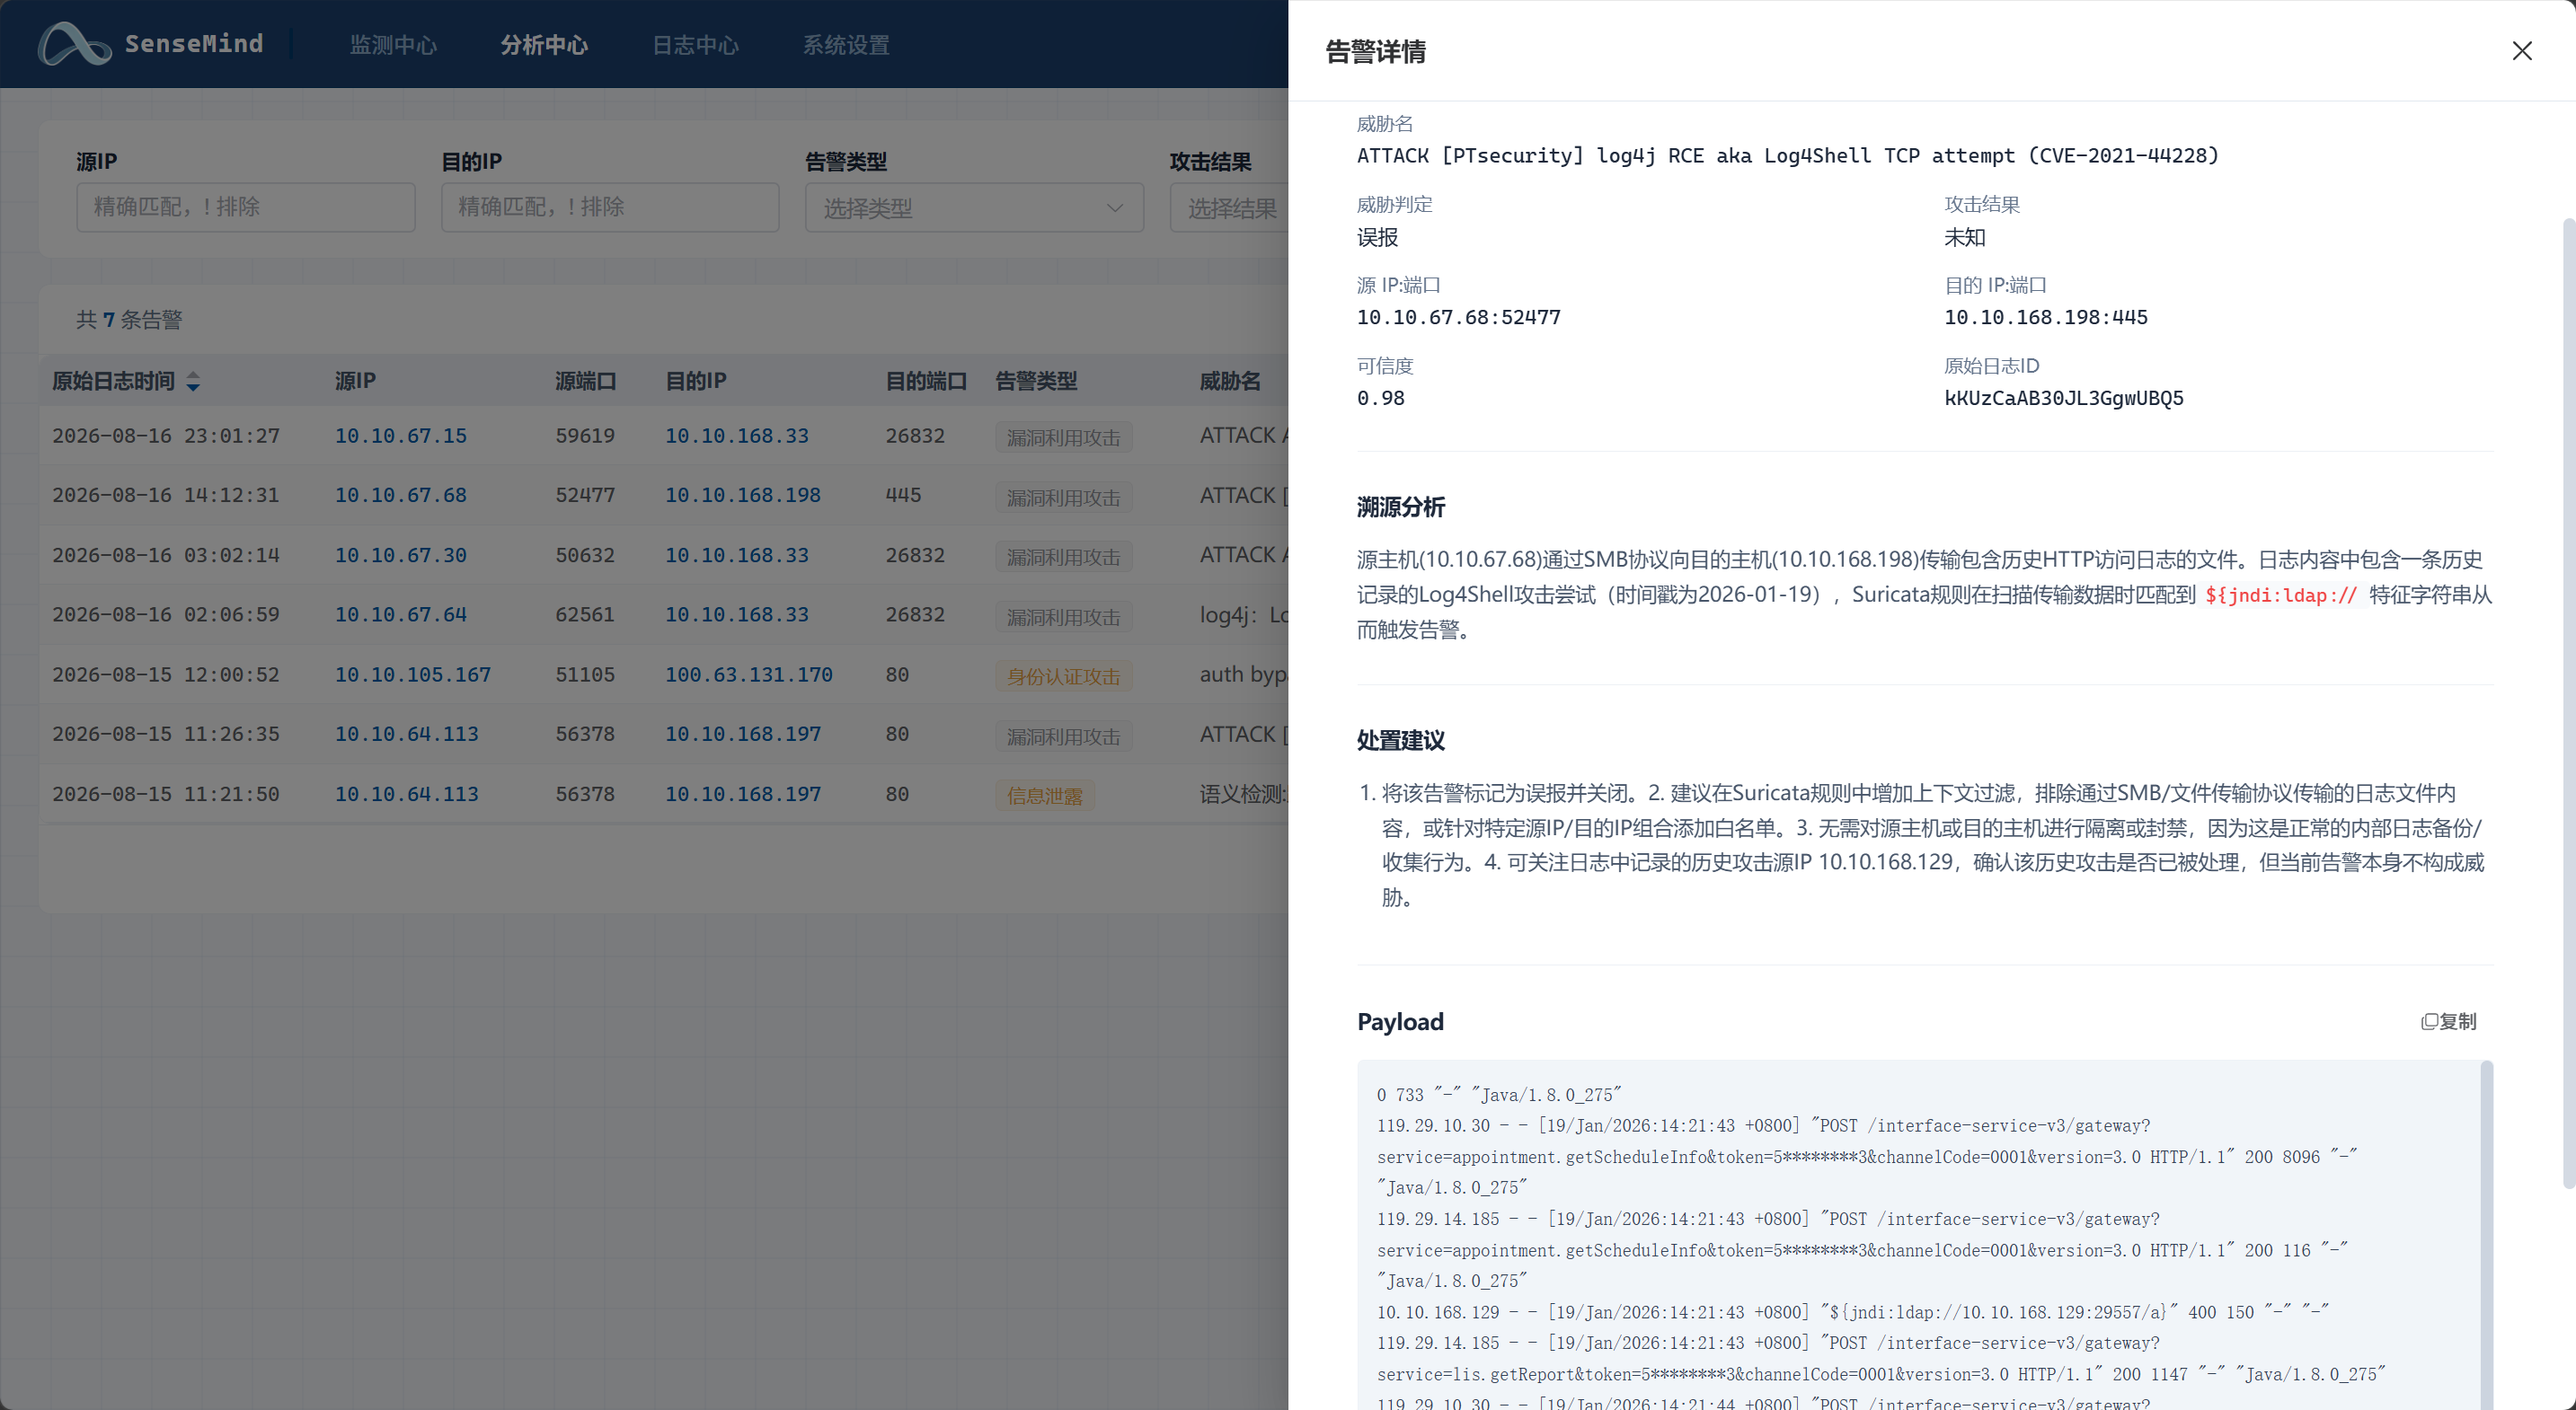
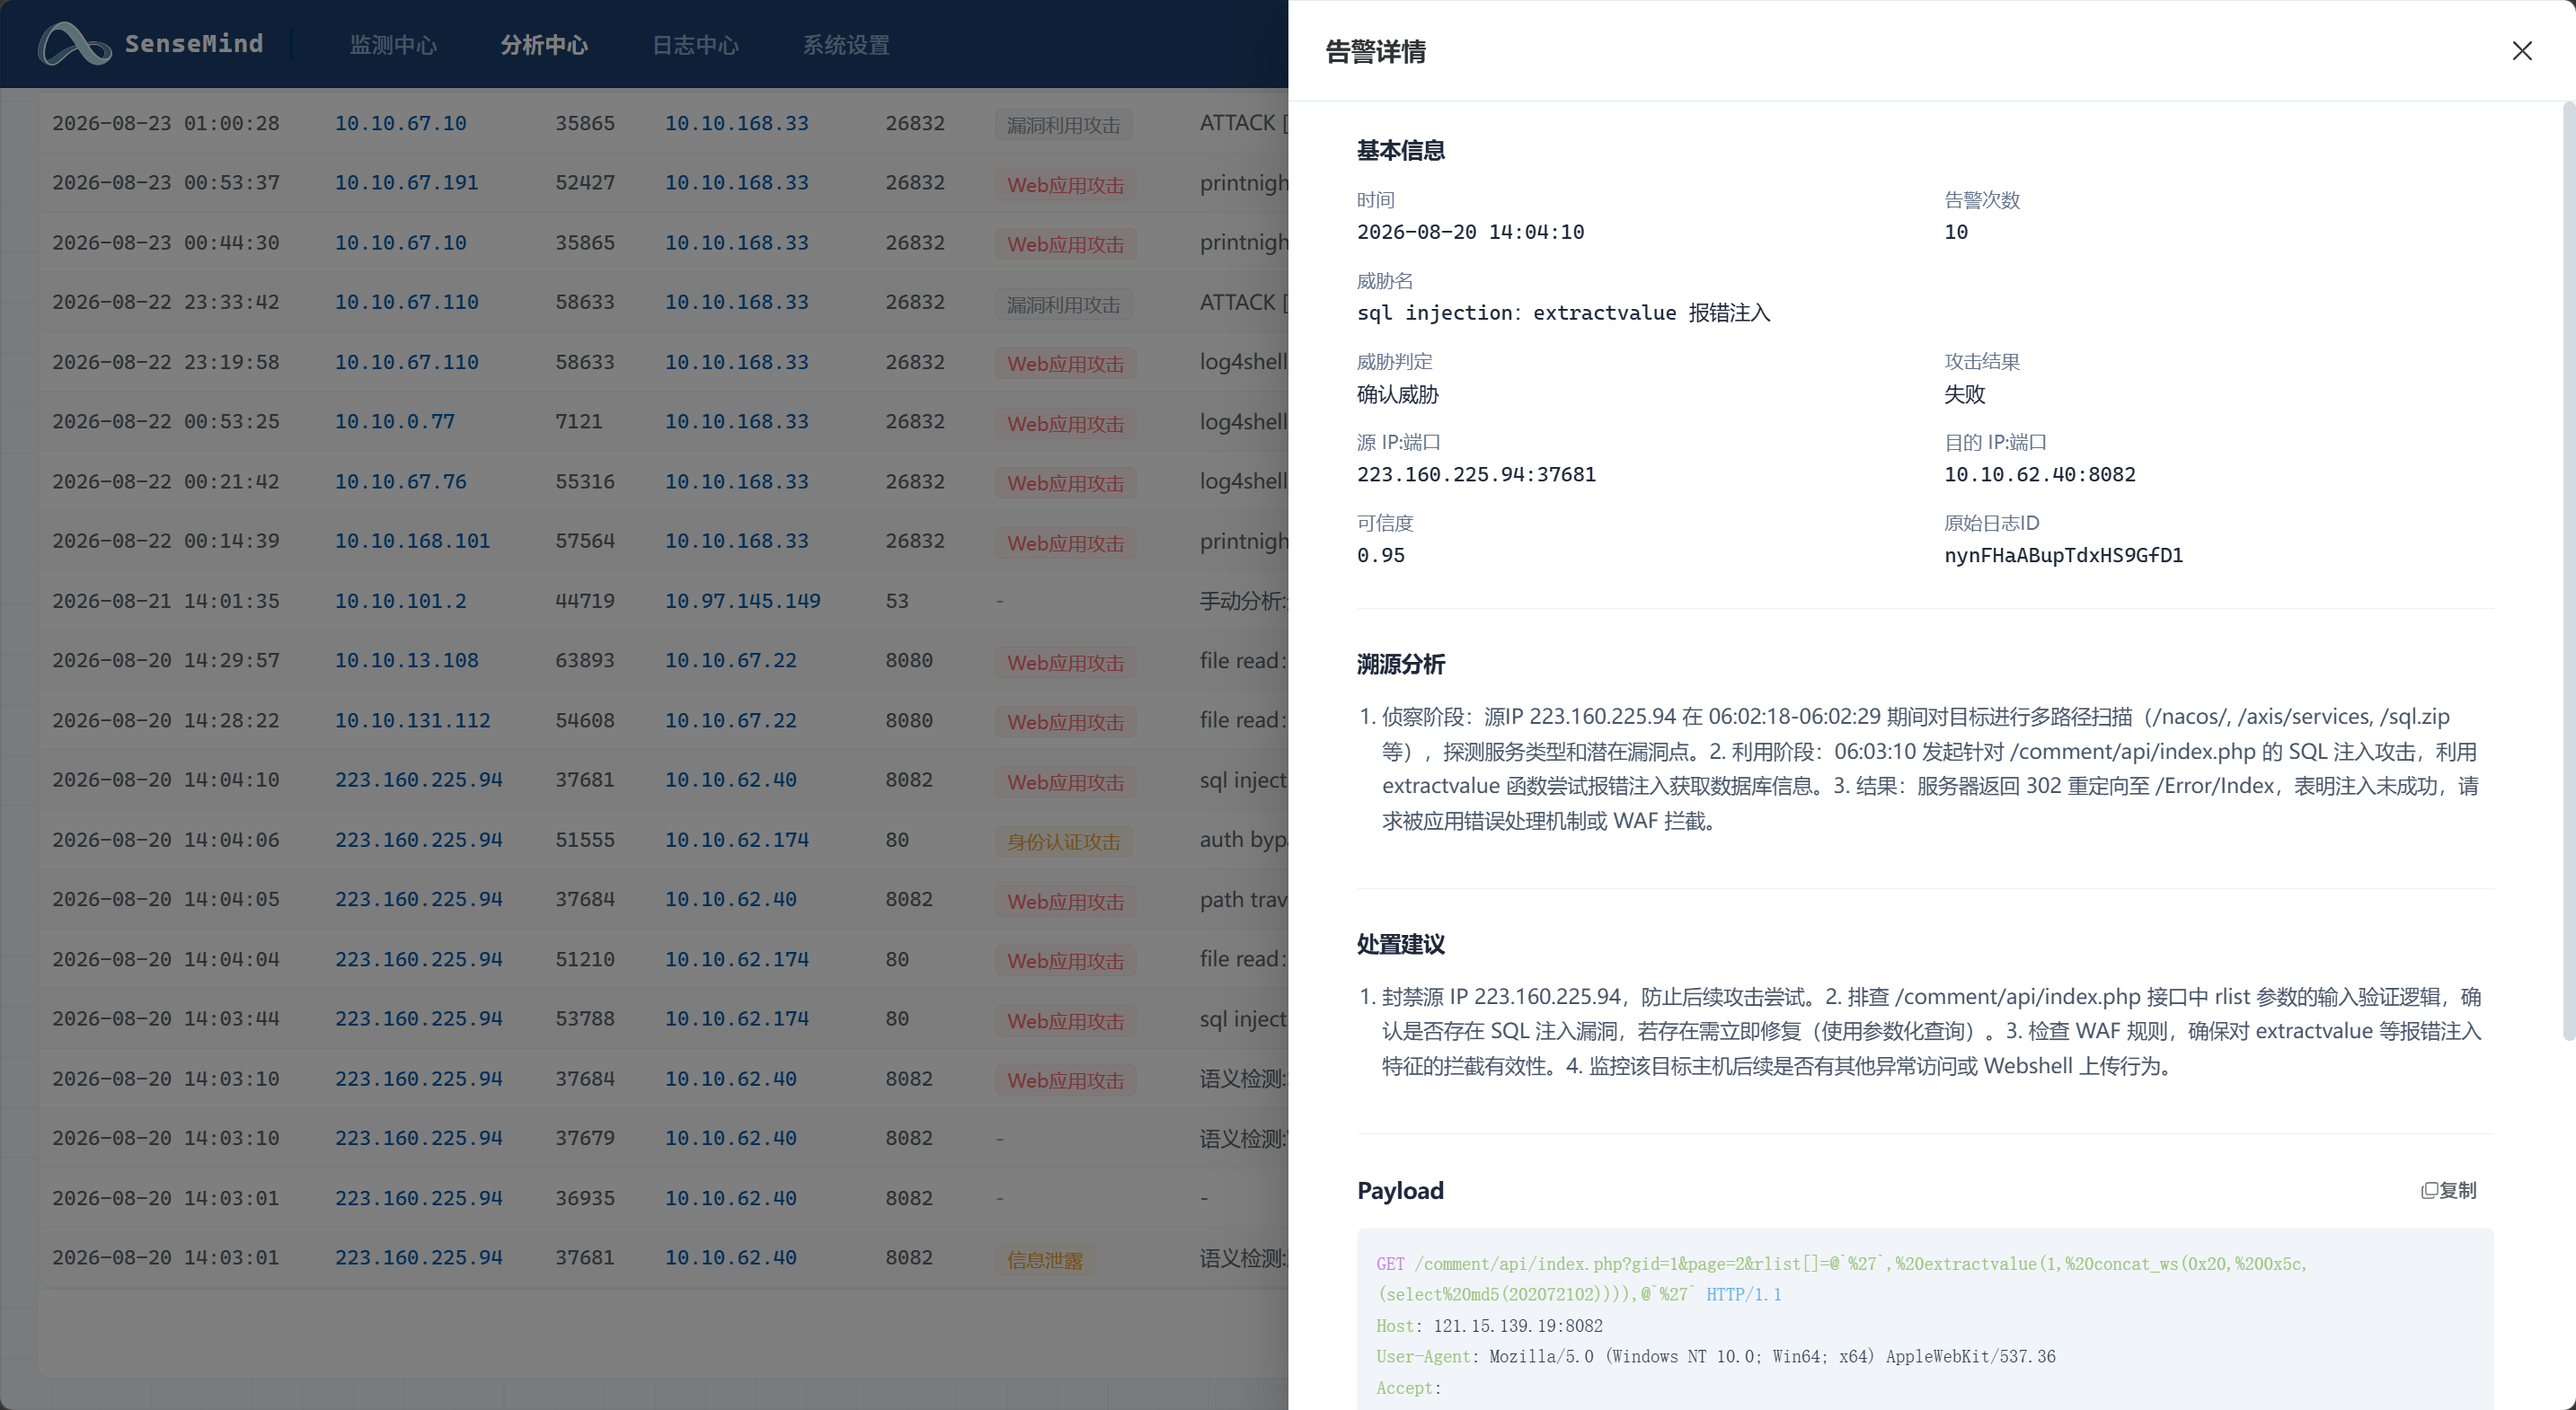
更正部分描述

diff --git a/README.md b/README.md
@@ -11,9 +11,9 @@
 - **双探针流量采集**：Suricata（告警/事件 + payload）与 Zeek（协议元数据）并行运行，Community ID 跨探针关联。
 - **Elastic 全栈一体化**：Filebeat → Logstash（字段裁剪 + ECS 转换 + SOC 分类）→ Elasticsearch → SenseMind Web 可视化。
 - **SOC 14 大类分类**：Logstash 实时匹配 Suricata 告警，映射 MITRE ATT&CK 战术阶段，命中重点告警自动推送 AI。
-- **6 阶段 AI 研判**：标准化 → 研判 → 动态关联查询 → RAG 知识增强 → 最终分析 → 规则生成，AI 自主决策，结构化输出。
+- **5 阶段 AI 研判**：标准化 → 研判 → 动态关联查询 → RAG 知识增强 → 最终分析，确认攻击后自动生成规则，AI 自主决策，结构化输出。
 - **三层联合查询**：Community ID 精确关联（同会话全量日志，跨 Suricata + Zeek 探针）+ 源/目的 IP 时间窗口关联（覆盖多连接、横向移动）+ IP 历史告警查询（24h），结果去重合并。
-- **类语义检测引擎**：关键词匹配（13 类攻击特征）+ 递归解码（5 层 URL/HTML/Base64/Hex）+ 语法分析（SQL 注释清除、Shell 命令解析、路径规范化、XSS 标签检测），零 LLM 调用捕获编码绕过和变形攻击。
+- **类语义检测引擎**：关键词匹配（14 类攻击特征）+ 递归解码（5 层 URL/HTML/Base64/Hex）+ 语法分析（SQL 注释清除、Shell 命令解析、路径规范化、XSS 标签检测），零 LLM 调用捕获编码绕过和变形攻击。
 - **AI 自学习闭环**：确认攻击后自动生成 Suricata 规则写入 `local.rules` 并热加载，采用 HTTP sticky buffer 精确匹配 + 动态地址组，持续积累检测能力。
 - **告警去重**：同一 `community_id` + `signature_id`、同一 `source_ip` + `signature_id`，以及同一 `community_id`（流级别，不论触发哪条规则）在时间窗口内只分析一次。
 - **一键部署**：证书生成、密码引导、规则更新、全栈启动全流程自动化。
@@ -30,7 +30,7 @@
 ### 部署
 
 ```bash
-sudo bash deploy.sh <interface>   # 如 ens192、eth0
+sudo bash deploy.sh <interface>   # 流量监听接口 如 eno1np0、ns192
 ```
 
 ### 访问
@@ -68,7 +68,7 @@ cat .env | grep ELASTIC_PASSWORD
    成         │         │
    │       全量→ES   matched→AI推送管道
    │       soc-*       │
-   │             AI 分析中心 (6阶段 Chain)
+   │             AI 分析中心 (5阶段 Chain)
    └──────────────结果回写 ES (soc-ai-*)
                        │
                   SenseMind Web 可视化
@@ -87,10 +87,12 @@ SenseMind/
 │   ├── logstash.conf            # 主管道
 │   ├── ai-push.conf             # AI 推送管道
 │   └── soc_categories.json      # SOC 分类映射
+├── suricata/
+│   └── combined.rules           # 自定义规则
 ├── ai-analyzer/
 │   ├── config.yaml              # LLM/ES/知识库/Suricata/去重 配置
 │   ├── knowledge/               # RAG 知识库（MITRE + SOC Playbook）
-│   └── app/                     # FastAPI + LangChain 6阶段 Chain
+│   └── app/                     # FastAPI + LangChain 5阶段 Chain
 └── web/                         # Vue 3 前端（监控中心/分析中心/日志中心/系统设置）
 ```
 `ai-analyzer/knowledge`仅有基础RAG知识，需对其进行维护提高检测准确性
@@ -126,11 +128,8 @@ sudo docker exec suricata suricatasc -c reload-rules
 # 查看 AI 生成的规则
 cat /data/suricata/lib/rules/local.rules
 
-# 重启 AI 分析中心（修改 config.yaml 后）
-docker restart ai-analyzer
-
 # 手动触发某条告警分析
-curl -X POST http://localhost:9090/api/analyze/<doc_id>
+curl -X POST http://localhost:9090/api/v1/analyze/<doc_id>
 ```
 
 ### 故障恢复
